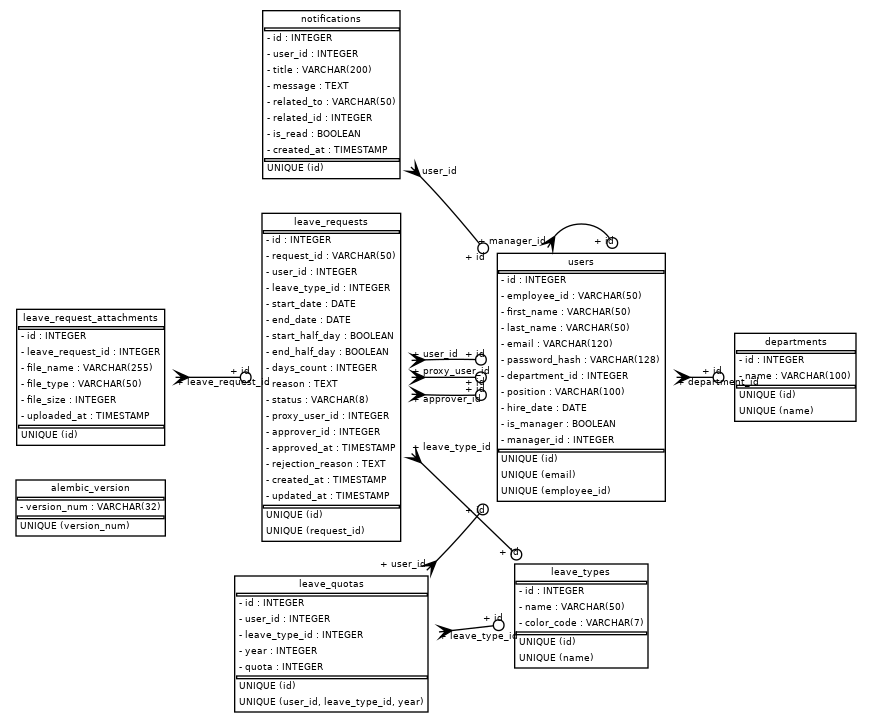
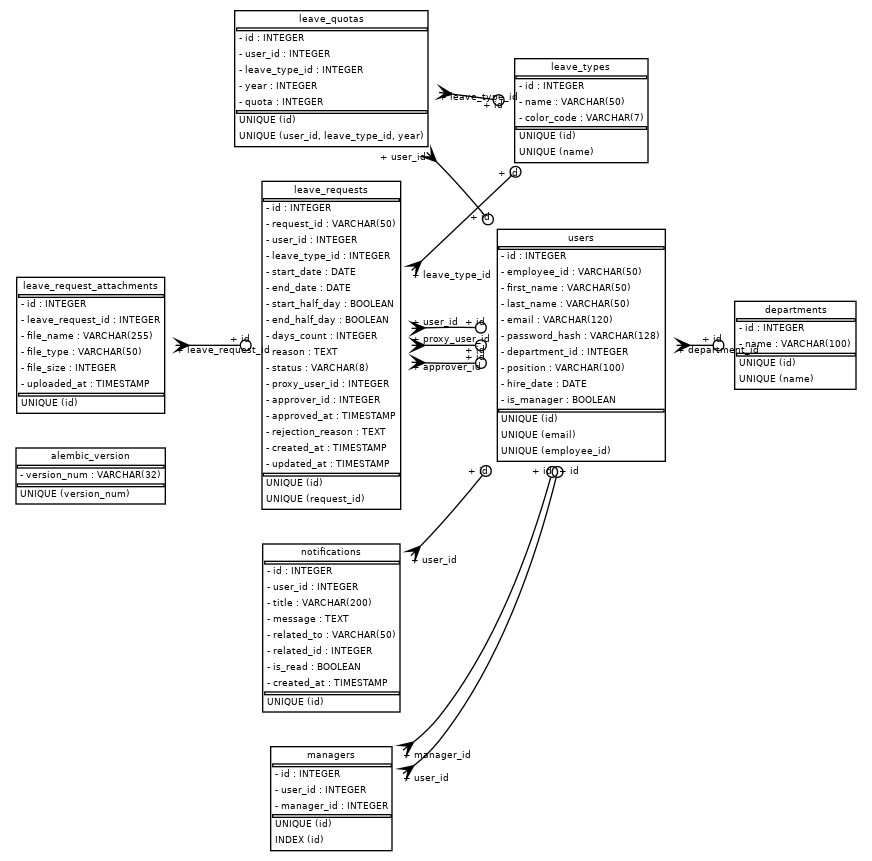
generate fake data

diff --git a/app/fake_data_generate.py b/app/fake_data_generate.py
@@ -8,13 +8,16 @@ from models.department import Department
 from models.notification import Notification
 from models.leave_request_attachment import LeaveRequestAttachment
 from models.manager import Manager
-from werkzeug.security import generate_password_hash
+from werkzeug.security import generate_password_hash # hash後密碼字數會爆炸，先暫時不用
+import random
+from datetime import datetime, timedelta
 
 from database import SessionLocal
 
 fake = Faker()
 
 def generate_fake_departments(db: Session, num_departments: int = 5):
+    print("Generating fake departments...")
     for _ in range(num_departments):
         department = Department(
             name=fake.company(),
@@ -23,7 +26,10 @@ def generate_fake_departments(db: Session, num_departments: int = 5):
     db.commit()
 
 def generate_fake_users(db: Session, num_users: int = 20):
+    print("Generating fake users...")
     departments = db.query(Department).all()
+    if not departments:
+        raise ValueError("Departments must be generated before users.")
     users = []  # 儲存所有生成的使用者
     for _ in range(num_users):
         user = User(
@@ -35,7 +41,7 @@ def generate_fake_users(db: Session, num_users: int = 20):
             position=fake.job(),
             hire_date=fake.date_this_decade(),
             is_manager=fake.boolean(),
-            password_hash=generate_password_hash('password123'),
+            password_hash='test',
         )
         db.add(user)
         users.append(user)
@@ -53,6 +59,7 @@ def generate_fake_users(db: Session, num_users: int = 20):
     db.commit()
 
 def generate_fake_leave_types(db: Session, num_leave_types: int = 5):
+    print("Generating fake leave types...")
     for _ in range(num_leave_types):
         leave_type = LeaveType(
             name=fake.word(),
@@ -62,6 +69,7 @@ def generate_fake_leave_types(db: Session, num_leave_types: int = 5):
     db.commit()
 
 def generate_fake_leave_quotas(db: Session, num_quotas: int = 30):
+    print("Generating fake leave quotas...")
     users = db.query(User).all()
     leave_types = db.query(LeaveType).all()
     for _ in range(num_quotas):
@@ -75,21 +83,40 @@ def generate_fake_leave_quotas(db: Session, num_quotas: int = 30):
     db.commit()
 
 def generate_fake_leave_requests(db: Session, num_requests: int = 20):
+    print("Generating fake leave requests...")
     users = db.query(User).all()
     leave_types = db.query(LeaveType).all()
+
+    if not users or not leave_types:
+        raise ValueError("請先建立使用者與假期類型資料")
+
     for _ in range(num_requests):
+        status = random.choice(list(LeaveStatus))
+        user = fake.random_element(elements=users)
+        leave_type = fake.random_element(elements=leave_types)
+
+        # start_date < end_date
+        start_date = fake.date_between(start_date='-30d', end_date='today')
+        end_date = start_date + timedelta(days=random.randint(1, 5))
+
         leave_request = LeaveRequest(
-            user_id=fake.random_element(elements=users).id,
-            leave_type_id=fake.random_element(elements=leave_types).id,
-            start_date=fake.date_this_year(),
-            end_date=fake.date_this_year(),
+            request_id=f"REQ{datetime.now().strftime('%Y%m%d')}{fake.unique.random_int(min=1000, max=9999)}",
+            user_id=user.id,
+            leave_type_id=leave_type.id,
+            start_date=start_date,
+            end_date=end_date,
             reason=fake.text(),
-            status=fake.random_choice(elements=["Pending", "Approved", "Rejected"]),
+            status=status,
+            days_count=(end_date - start_date).days + 1,
+            approved_at=datetime.now() if status == LeaveStatus.approved else None,
+            rejection_reason=fake.sentence() if status == LeaveStatus.rejected else None,
         )
         db.add(leave_request)
+
     db.commit()
 
 def generate_fake_notifications(db: Session, num_notifications: int = 20):
+    print("Generating fake notifications...")
     users = db.query(User).all()
     for _ in range(num_notifications):
         notification = Notification(
@@ -103,16 +130,42 @@ def generate_fake_notifications(db: Session, num_notifications: int = 20):
         db.add(notification)
     db.commit()
 
+def generate_fake_leave_request_attachments(db: Session, num_attachments: int = 20):
+    print("Generating fake leave request attachments...")
+    leave_requests = db.query(LeaveRequest).all()
+
+    if not leave_requests:
+        raise ValueError("cannot generate attachments without leave requests")
+
+    file_extensions = ['pdf', 'jpg', 'png', 'docx']
+
+    for _ in range(num_attachments):
+        lr = fake.random_element(elements=leave_requests)
+        ext = fake.random_element(elements=file_extensions)
+        attachment = LeaveRequestAttachment(
+            leave_request_id=lr.id,
+            file_name=f"{fake.word()}.{ext}",
+            file_type=ext,
+            file_size=fake.random_int(min=100, max=2048),  # 單位：KB
+        )
+        db.add(attachment)
+
+    db.commit()
+
+
 def init_db():
     """Initialize the database with fake data."""
     db = SessionLocal()
     try:
         generate_fake_departments(db)
-        # generate_fake_users(db)
-        # generate_fake_leave_types(db)
-        # generate_fake_leave_quotas(db)
-        # generate_fake_leave_requests(db)
-        # generate_fake_notifications(db)
+        generate_fake_users(db)
+        generate_fake_leave_types(db)
+        generate_fake_leave_quotas(db)
+        generate_fake_leave_requests(db)
+        generate_fake_notifications(db)
+        generate_fake_leave_request_attachments(db)
+        print("Fake data generation completed successfully.")
+        
     except Exception as e:
         print(f"Error generating fake data: {e}")
         db.rollback()

diff --git a/migrations/versions/14b481f05ffc_change_the_relationship.py b/migrations/versions/14b481f05ffc_change_the_relationship.py
@@ -1,0 +1,32 @@
+"""change the relationship
+
+Revision ID: 14b481f05ffc
+Revises: 6b51de84b271
+Create Date: 2025-05-04 16:36:31.758711
+
+"""
+from typing import Sequence, Union
+
+from alembic import op
+import sqlalchemy as sa
+
+
+# revision identifiers, used by Alembic.
+revision: str = '14b481f05ffc'
+down_revision: Union[str, None] = '6b51de84b271'
+branch_labels: Union[str, Sequence[str], None] = None
+depends_on: Union[str, Sequence[str], None] = None
+
+
+def upgrade() -> None:
+    """Upgrade schema."""
+    # ### commands auto generated by Alembic - please adjust! ###
+    pass
+    # ### end Alembic commands ###
+
+
+def downgrade() -> None:
+    """Downgrade schema."""
+    # ### commands auto generated by Alembic - please adjust! ###
+    pass
+    # ### end Alembic commands ###

diff --git a/migrations/versions/6b51de84b271_change_the_relationship.py b/migrations/versions/6b51de84b271_change_the_relationship.py
@@ -1,0 +1,32 @@
+"""change the relationship
+
+Revision ID: 6b51de84b271
+Revises: 7095865e2791
+Create Date: 2025-05-04 16:19:35.330457
+
+"""
+from typing import Sequence, Union
+
+from alembic import op
+import sqlalchemy as sa
+
+
+# revision identifiers, used by Alembic.
+revision: str = '6b51de84b271'
+down_revision: Union[str, None] = '7095865e2791'
+branch_labels: Union[str, Sequence[str], None] = None
+depends_on: Union[str, Sequence[str], None] = None
+
+
+def upgrade() -> None:
+    """Upgrade schema."""
+    # ### commands auto generated by Alembic - please adjust! ###
+    pass
+    # ### end Alembic commands ###
+
+
+def downgrade() -> None:
+    """Downgrade schema."""
+    # ### commands auto generated by Alembic - please adjust! ###
+    pass
+    # ### end Alembic commands ###

diff --git a/app/models/user.py b/app/models/user.py
@@ -18,10 +18,8 @@ class User(Base):
 
     # relationships
     department = relationship('Department', back_populates='users')
-    # 1對多關聯：員工的下屬關聯
-    subordinates = relationship('Manager', back_populates='user')    
-    # 1對多關聯：員工的上司關聯
-    managers = relationship('Manager', back_populates='manager')
+    subordinate_relations = relationship('Manager', foreign_keys='Manager.user_id', back_populates='user')
+    manager_relations = relationship('Manager', foreign_keys='Manager.manager_id', back_populates='manager')
     # 1對多關聯：一個User可以有多個LeaveQuota
     leave_quotas = relationship('LeaveQuota', back_populates='user')
     # 1對多關聯：一個User可以有多個LeaveRequest

diff --git a/app/models/manager.py b/app/models/manager.py
@@ -9,5 +9,5 @@ class Manager(Base):
     user_id = Column(Integer, ForeignKey('users.id'), nullable=False)  # 員工ID
     manager_id = Column(Integer, ForeignKey('users.id'), nullable=False)  # 上司ID
 
-    user = relationship('User', foreign_keys=[user_id], back_populates='subordinates')
-    manager = relationship('User', foreign_keys=[manager_id], back_populates='managers')
+    user = relationship('User', foreign_keys=[user_id], back_populates='subordinate_relations')
+    manager = relationship('User', foreign_keys=[manager_id], back_populates='manager_relations')
